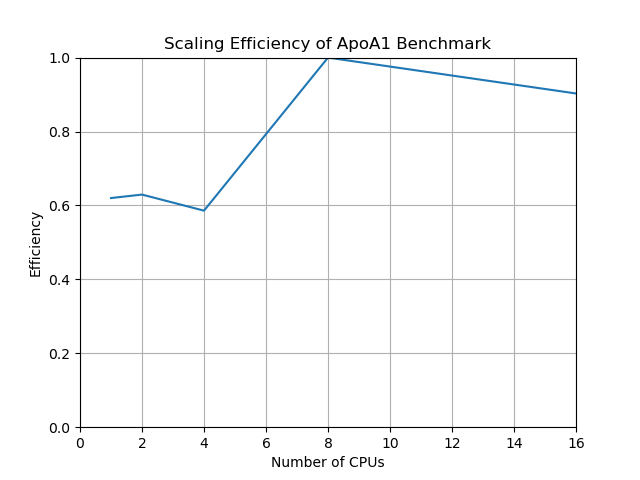
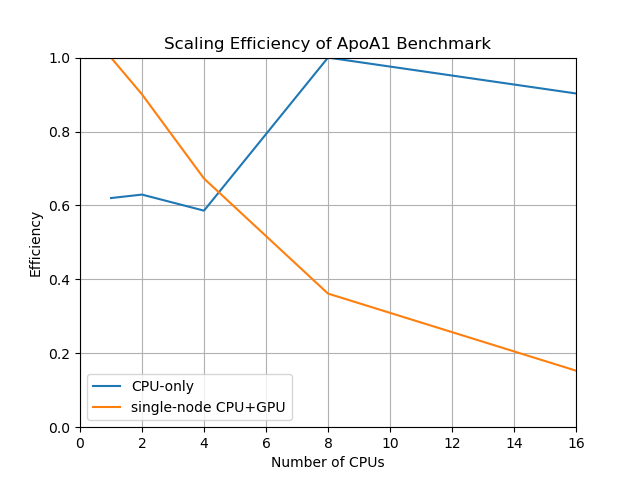
update graphs with single-node GPU results

diff --git a/performance_graph.py b/performance_graph.py
@@ -14,73 +14,106 @@ import matplotlib.pyplot as plt
 #import pandas as pd
 #import numpy as np
 
-# Gather performance results from log files
-log_files = ['./logs/apoa1-1.log', './logs/apoa1-2.log', './logs/apoa1-4.log', './logs/apoa1-8.log', './logs/apoa1-16.log']
+# Gather performance results from CPU-only log files
+log_files_C = ['./logs/apoa1-1.log', './logs/apoa1-2.log', './logs/apoa1-4.log', './logs/apoa1-8.log', './logs/apoa1-16.log']
 #log_files = glob.glob('./logs/*.log', recursive=False)
 
-num_cpus_arr = np.array([])
-s_step_arr = np.array([])
+num_cpus_arr_C = np.array([])
+s_step_arr_C = np.array([])
 
-for filename in log_files:
+for filename in log_files_C:
     file = open(filename, 'r')
     for line in file:
         if re.search('Benchmark', line):
-            num_cpus = int(line.split(' ')[3])
-            s_step = float(line.split(' ')[5])
-            num_cpus_arr = np.append(num_cpus_arr, np.array([num_cpus]))
-            s_step_arr = np.append(s_step_arr, np.array([s_step]))
+            num_cpus_C = int(line.split(' ')[3])
+            s_step_C = float(line.split(' ')[5])
+            num_cpus_arr_C = np.append(num_cpus_arr_C, np.array([num_cpus_C]))
+            s_step_arr_C = np.append(s_step_arr_C, np.array([s_step_C]))
             break
             
-# Hardcode results of ns_per_day.py  
-ns_day_arr = np.array([0.0754122, 0.153103, 0.285054, 0.973057, 1.75722])
+# Gather performance results from single-node GPU log files
+log_files_G = ['./logs/apoa1-GPU-1.log', './logs/apoa1-GPU-2.log', './logs/apoa1-GPU-4.log', './logs/apoa1-GPU-8.log', './logs/apoa1-GPU-16.log']
+#log_files = glob.glob('./logs/*.log', recursive=False)
 
-eff_arr = np.array([0.0754122/1, 0.153103/2, 0.285054/4, 0.973057/8, 1.75722/16])
-eff_arr = np.divide(eff_arr, 0.973057/8)
+num_cpus_arr_G = np.array([])
+s_step_arr_G = np.array([])
+
+for filename in log_files_G:
+    file = open(filename, 'r')
+    for line in file:
+        if re.search('Benchmark', line):
+            num_cpus_G = int(line.split(' ')[3])
+            s_step_G = float(line.split(' ')[5])
+            num_cpus_arr_G = np.append(num_cpus_arr_G, np.array([num_cpus_G]))
+            s_step_arr_G = np.append(s_step_arr_G, np.array([s_step_G]))
+            break
+            
+# Hardcode results of ns_per_day.py
+ns_day_arr_C = np.array([0.0754122, 0.153103, 0.285054, 0.973057, 1.75722])
+ns_day_arr_G = np.array([7.44807, 13.4145, 20.0439, 21.5405, 18.2305])
+
+eff_arr_C = np.array([0.0754122/1, 0.153103/2, 0.285054/4, 0.973057/8, 1.75722/16])
+eff_arr_C = np.divide(eff_arr_C, 0.973057/8)
+
+eff_arr_G = np.array([7.44807/1, 13.4145/2, 20.0439/4, 21.5405/8, 18.2305/16])
+eff_arr_G = np.divide(eff_arr_G, 7.44807/1)
             
 # Create a plot of performance results in s/step
-x = num_cpus_arr
-y = s_step_arr
+x1 = num_cpus_arr_C
+y1 = s_step_arr_C
+x2 = num_cpus_arr_G
+y2 = s_step_arr_G
 
 plt.figure()
-plt.plot(x, y)
+plt.plot(x1, y1, label="CPU-only")
+plt.plot(x2, y2, label="single-node CPU+GPU")
 plt.title('Scaling Performance of ApoA1 Benchmark')
 plt.xlabel('Number of CPUs')
 plt.ylabel('Performance (s/step)')
 plt.grid()
 plt.xlim(0,16)
 #plt.ylim(0,2)
+plt.legend()
 
 plt.savefig('performance_s_step.png')
 
 
 # Create a plot of performance results in ns/day
-x = num_cpus_arr
-y = ns_day_arr
+x1 = num_cpus_arr_C
+y1 = ns_day_arr_C
+x2 = num_cpus_arr_G
+y2 = ns_day_arr_G
 
 plt.figure()
-plt.plot(x, y)
+plt.plot(x1, y1, label="CPU-only")
+plt.plot(x2, y2, label="single-node CPU+GPU")
 plt.title('Scaling Performance of ApoA1 Benchmark')
 plt.xlabel('Number of CPUs')
 plt.ylabel('Performance (ns/day)')
 plt.grid()
 plt.xlim(0,16)
-plt.ylim(0,2)
+#plt.ylim(0,2)
+plt.legend()
 
 plt.savefig('performance_ns_day.png')
 
 
 # Create a plot of efficiency results
-x = num_cpus_arr
-y = eff_arr
+x1 = num_cpus_arr_C
+y1 = eff_arr_C
+x2 = num_cpus_arr_G
+y2 = eff_arr_G
 
 plt.figure()
-plt.plot(x, y)
+plt.plot(x1, y1, label="CPU-only")
+plt.plot(x2, y2, label="single-node CPU+GPU")
 plt.title('Scaling Efficiency of ApoA1 Benchmark')
 plt.xlabel('Number of CPUs')
 plt.ylabel('Efficiency')
 plt.grid()
 plt.xlim(0,16)
 plt.ylim(0,1)
+plt.legend()
 
 plt.savefig('efficiency_plot.png')
 
